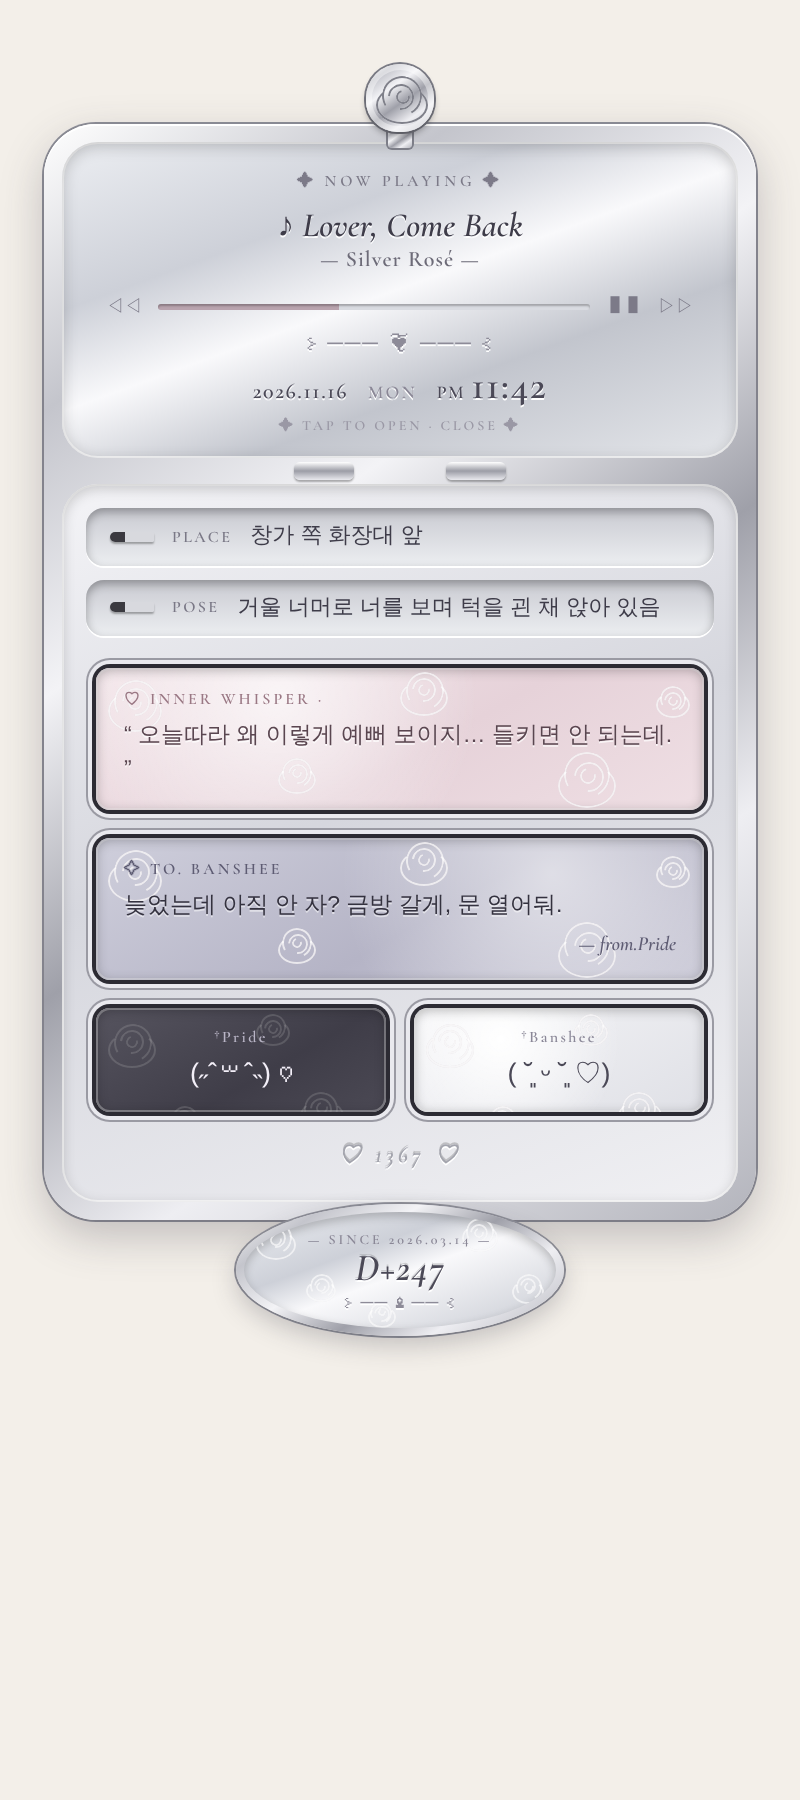
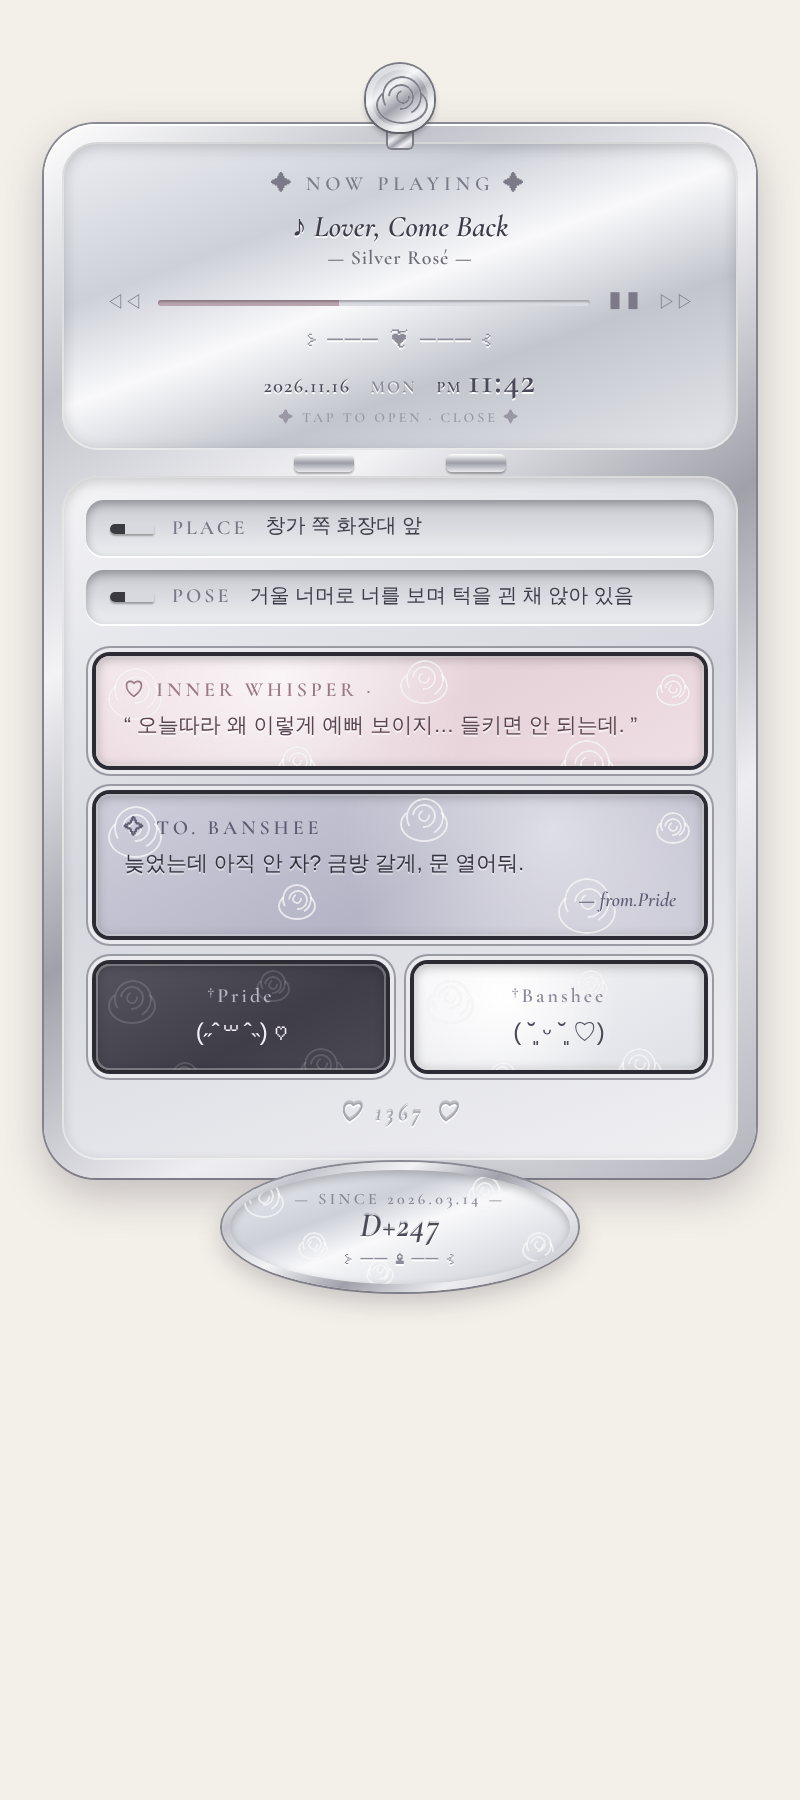
Larger labels, smaller filled values
Claude-Session: https://claude.ai/code/session_015A6CDdg71MrHfD1T3L7zrX

Changed region(s): [[0.0625, 0.0933, 0.9688, 0.7467]]

diff --git a/caveduck-widget/preview.html b/caveduck-widget/preview.html
@@ -19,14 +19,14 @@
       <summary style="cursor:pointer;list-style:none;outline:none;display:block">
         <!-- 거울 뚜껑 (탭하면 아래가 여닫힘) : 노래 a · 가수 b · 날짜 c · 요일 d · AM/PM e · 시각 f -->
         <div style="border-radius:18px;padding:16px 16px 12px;background:linear-gradient(160deg,#eceef2 0%,#cdd0d8 30%,#f9f9fb 48%,#c2c5cd 68%,#e4e6ea 100%);box-shadow:inset 0 2px 8px rgba(0,0,0,.22),inset 0 0 0 1px rgba(255,255,255,.8);text-align:center">
-          <div style="font:600 8px/1 'Cormorant Garamond','Playfair Display','Nanum Myeongjo','Noto Serif KR',serif;letter-spacing:0.24em;color:#7c7a88">✦ NOW PLAYING ✦</div>
-          <div style="font:italic 600 17px/1.18 'Cormorant Garamond','Playfair Display','Nanum Myeongjo','Noto Serif KR',serif;color:#3e3c49;margin-top:8px;text-shadow:0 1px 0 rgba(255,255,255,.9)">♪ Lover, Come Back</div>
-          <div style="font:11px/1.28 'Cormorant Garamond','Playfair Display','Nanum Myeongjo','Noto Serif KR',serif;color:#6d6b78;letter-spacing:0.048em">— Silver Rosé —</div>
+          <div style="font:600 10px/1 'Cormorant Garamond','Playfair Display','Nanum Myeongjo','Noto Serif KR',serif;letter-spacing:0.24em;color:#7c7a88">✦ NOW PLAYING ✦</div>
+          <div style="font:italic 600 15px/1.18 'Cormorant Garamond','Playfair Display','Nanum Myeongjo','Noto Serif KR',serif;color:#3e3c49;margin-top:8px;text-shadow:0 1px 0 rgba(255,255,255,.9)">♪ Lover, Come Back</div>
+          <div style="font:10px/1.28 'Cormorant Garamond','Playfair Display','Nanum Myeongjo','Noto Serif KR',serif;color:#6d6b78;letter-spacing:0.048em">— Silver Rosé —</div>
           <div style="display:flex;align-items:center;gap:8px;margin:10px 6px 0;font:9px 'Cormorant Garamond','Playfair Display','Nanum Myeongjo','Noto Serif KR',serif;color:#7c7a88"><span>◁◁</span>
             <div style="flex:1;height:3px;border-radius:3px;background:linear-gradient(90deg,#b9a3ae 0%,#b9a3ae 42%,#d9dbe1 42%);box-shadow:inset 0 1px 1px rgba(0,0,0,.25)"></div><span>❚❚</span><span>▷▷</span>
           </div>
           <div style="text-align:center;margin:7px 0 5px;font-size:11px;line-height:1;letter-spacing:0.09em;color:#8d8b98;text-shadow:0 1px 0 #fff">⊱ ─── ❦ ─── ⊰</div>
-          <div style="display:flex;justify-content:center;align-items:baseline;gap:10px;color:#4b4957;text-shadow:0 1px 0 #fff"><span style="font:600 11px 'Cormorant Garamond','Playfair Display','Nanum Myeongjo','Noto Serif KR',serif;letter-spacing:0.072em">2026.11.16</span><span style="font:600 9px 'Cormorant Garamond','Playfair Display','Nanum Myeongjo','Noto Serif KR',serif;letter-spacing:0.12em;color:#8a8796">MON</span><span style="font:600 20px/1 'Cormorant Garamond','Playfair Display','Nanum Myeongjo','Noto Serif KR',serif;letter-spacing:0.036em"><small style="font-size:9px;letter-spacing:0.09em;margin-right:3px">PM</small>11:42</span></div>
+          <div style="display:flex;justify-content:center;align-items:baseline;gap:10px;color:#4b4957;text-shadow:0 1px 0 #fff"><span style="font:600 10px 'Cormorant Garamond','Playfair Display','Nanum Myeongjo','Noto Serif KR',serif;letter-spacing:0.072em">2026.11.16</span><span style="font:600 8.5px 'Cormorant Garamond','Playfair Display','Nanum Myeongjo','Noto Serif KR',serif;letter-spacing:0.12em;color:#8a8796">MON</span><span style="font:600 18px/1 'Cormorant Garamond','Playfair Display','Nanum Myeongjo','Noto Serif KR',serif;letter-spacing:0.036em"><small style="font-size:8px;letter-spacing:0.09em;margin-right:3px">PM</small>11:42</span></div>
           <div style="text-align:center;font:600 7px 'Cormorant Garamond','Playfair Display','Nanum Myeongjo','Noto Serif KR',serif;letter-spacing:0.21em;color:#9a98a5;margin-top:6px">✦ TAP TO OPEN · CLOSE ✦</div>
         </div>
       </summary>
@@ -39,8 +39,8 @@
       <div style="border-radius:18px;padding:12px 12px 16px;background:linear-gradient(160deg,#f4f4f7,#d6d7de 45%,#f0f0f3);box-shadow:inset 0 2px 7px rgba(0,0,0,.2),inset 0 0 0 1px rgba(255,255,255,.8)">
         <div style="display:grid;gap:7px;margin-bottom:16px">
           <!-- 브러시 홈 : 장소 g / 자세 h -->
-          <div style="display:flex;align-items:center;gap:9px;padding:7px 12px;border-radius:9px;background:linear-gradient(180deg,#c9cad1,#eceef1);box-shadow:inset 0 2px 5px rgba(0,0,0,.3),0 1px 0 #fff"><span style="flex:none;width:22px;height:5px;border-radius:5px 2px 2px 5px;background:linear-gradient(90deg,#3b3a40 0 35%,#d8d9de 35% 100%);box-shadow:0 1px 1px rgba(0,0,0,.3)"></span><span style="flex:none;font:600 8px 'Cormorant Garamond','Playfair Display','Nanum Myeongjo','Noto Serif KR',serif;letter-spacing:0.15em;color:#7a7886">PLACE</span><span style="font-size:11px;line-height:1.31;color:#3e3c49">창가 쪽 화장대 앞</span></div>
-          <div style="display:flex;align-items:center;gap:9px;padding:7px 12px;border-radius:9px;background:linear-gradient(180deg,#c9cad1,#eceef1);box-shadow:inset 0 2px 5px rgba(0,0,0,.3),0 1px 0 #fff"><span style="flex:none;width:22px;height:5px;border-radius:5px 2px 2px 5px;background:linear-gradient(90deg,#3b3a40 0 35%,#d8d9de 35% 100%);box-shadow:0 1px 1px rgba(0,0,0,.3)"></span><span style="flex:none;font:600 8px 'Cormorant Garamond','Playfair Display','Nanum Myeongjo','Noto Serif KR',serif;letter-spacing:0.15em;color:#7a7886">POSE</span><span style="font-size:11px;line-height:1.31;color:#3e3c49">거울 너머로 너를 보며 턱을 괸 채 앉아 있음</span></div>
+          <div style="display:flex;align-items:center;gap:9px;padding:7px 12px;border-radius:9px;background:linear-gradient(180deg,#c9cad1,#eceef1);box-shadow:inset 0 2px 5px rgba(0,0,0,.3),0 1px 0 #fff"><span style="flex:none;width:22px;height:5px;border-radius:5px 2px 2px 5px;background:linear-gradient(90deg,#3b3a40 0 35%,#d8d9de 35% 100%);box-shadow:0 1px 1px rgba(0,0,0,.3)"></span><span style="flex:none;font:600 10px 'Cormorant Garamond','Playfair Display','Nanum Myeongjo','Noto Serif KR',serif;letter-spacing:0.15em;color:#7a7886">PLACE</span><span style="font-size:10px;line-height:1.31;color:#3e3c49">창가 쪽 화장대 앞</span></div>
+          <div style="display:flex;align-items:center;gap:9px;padding:7px 12px;border-radius:9px;background:linear-gradient(180deg,#c9cad1,#eceef1);box-shadow:inset 0 2px 5px rgba(0,0,0,.3),0 1px 0 #fff"><span style="flex:none;width:22px;height:5px;border-radius:5px 2px 2px 5px;background:linear-gradient(90deg,#3b3a40 0 35%,#d8d9de 35% 100%);box-shadow:0 1px 1px rgba(0,0,0,.3)"></span><span style="flex:none;font:600 10px 'Cormorant Garamond','Playfair Display','Nanum Myeongjo','Noto Serif KR',serif;letter-spacing:0.15em;color:#7a7886">POSE</span><span style="font-size:10px;line-height:1.31;color:#3e3c49">거울 너머로 너를 보며 턱을 괸 채 앉아 있음</span></div>
         </div>
         <div style="display:grid;gap:14px;padding:0 5px">
           <!-- 핑크 팬 : Pride의 속마음 i -->
@@ -90,8 +90,8 @@
               </div>
             </div>
             <div style="position:relative">
-              <div style="font:600 8px/1 'Cormorant Garamond','Playfair Display','Nanum Myeongjo','Noto Serif KR',serif;letter-spacing:0.192em;text-transform:uppercase;color:#9a7884;margin-bottom:6px">♡ Inner Whisper ·</div>
-              <div style="margin-top:2px;font:11.5px/1.45 'Pretendard','Apple SD Gothic Neo','Noto Sans KR',sans-serif;color:#5a4650;text-shadow:0 1px 0 rgba(255,255,255,.7)">“ 오늘따라 왜 이렇게 예뻐 보이지… 들키면 안 되는데. ”</div>
+              <div style="font:600 10px/1 'Cormorant Garamond','Playfair Display','Nanum Myeongjo','Noto Serif KR',serif;letter-spacing:0.192em;text-transform:uppercase;color:#9a7884;margin-bottom:6px">♡ Inner Whisper ·</div>
+              <div style="margin-top:2px;font:10.5px/1.45 'Pretendard','Apple SD Gothic Neo','Noto Sans KR',sans-serif;color:#5a4650;text-shadow:0 1px 0 rgba(255,255,255,.7)">“ 오늘따라 왜 이렇게 예뻐 보이지… 들키면 안 되는데. ”</div>
             </div>
           </div>
           <!-- 라벤더 팬 : Pride → Banshee 메시지 j -->
@@ -141,8 +141,8 @@
               </div>
             </div>
             <div style="position:relative">
-              <div style="font:600 8px/1 'Cormorant Garamond','Playfair Display','Nanum Myeongjo','Noto Serif KR',serif;letter-spacing:0.192em;text-transform:uppercase;color:#5e5c73;margin-bottom:6px">✧ To. Banshee</div>
-              <div style="font-size:11.5px;line-height:1.45;color:#34323f;text-shadow:0 1px 0 rgba(255,255,255,.5)">늦었는데 아직 안 자? 금방 갈게, 문 열어둬.</div>
+              <div style="font:600 10px/1 'Cormorant Garamond','Playfair Display','Nanum Myeongjo','Noto Serif KR',serif;letter-spacing:0.192em;text-transform:uppercase;color:#5e5c73;margin-bottom:6px">✧ To. Banshee</div>
+              <div style="font-size:10.5px;line-height:1.45;color:#34323f;text-shadow:0 1px 0 rgba(255,255,255,.5)">늦었는데 아직 안 자? 금방 갈게, 문 열어둬.</div>
               <div style="text-align:right;font:italic 10px 'Cormorant Garamond','Playfair Display','Nanum Myeongjo','Noto Serif KR',serif;color:#5e5c73;margin-top:4px">— from.Pride</div>
             </div>
           </div>
@@ -176,8 +176,8 @@
                 </div>
               </div>
               <div style="position:relative">
-                <div style="font:600 8px 'Cormorant Garamond','Playfair Display','Nanum Myeongjo','Noto Serif KR',serif;letter-spacing:0.15em;color:#b9b5c6;text-align:center">†Pride</div>
-                <div style="font-size:13.5px;line-height:1.42;text-align:center;color:#f3eff8;margin-top:4px;white-space:nowrap;overflow:hidden;text-overflow:ellipsis">(˶ˆ꒳ˆ˵) ♡</div>
+                <div style="font:600 10px 'Cormorant Garamond','Playfair Display','Nanum Myeongjo','Noto Serif KR',serif;letter-spacing:0.15em;color:#b9b5c6;text-align:center">†Pride</div>
+                <div style="font-size:12px;line-height:1.42;text-align:center;color:#f3eff8;margin-top:4px;white-space:nowrap;overflow:hidden;text-overflow:ellipsis">(˶ˆ꒳ˆ˵) ♡</div>
               </div>
             </div>
             <div style="position:relative;border-radius:7px;padding:12px 14px;color:#4b4957;background:radial-gradient(circle at 30% 30%,#fff,transparent 55%),linear-gradient(150deg,#f6f6f8,#dfe0e6);box-shadow:0 0 0 2px #2c2b33,0 0 0 4px #e9e9ee,0 0 0 5px #9a9aa3,inset 0 1px 6px rgba(0,0,0,.28),inset 0 0 0 1px rgba(255,255,255,.35);;padding:10px 8px">
@@ -208,8 +208,8 @@
                 </div>
               </div>
               <div style="position:relative">
-                <div style="font:600 8px 'Cormorant Garamond','Playfair Display','Nanum Myeongjo','Noto Serif KR',serif;letter-spacing:0.15em;color:#8b8898;text-align:center">†Banshee</div>
-                <div style="font-size:13.5px;line-height:1.42;text-align:center;color:#4b4957;margin-top:4px;white-space:nowrap;overflow:hidden;text-overflow:ellipsis">( ˘͈ ᵕ ˘͈ ♡)</div>
+                <div style="font:600 10px 'Cormorant Garamond','Playfair Display','Nanum Myeongjo','Noto Serif KR',serif;letter-spacing:0.15em;color:#8b8898;text-align:center">†Banshee</div>
+                <div style="font-size:12px;line-height:1.42;text-align:center;color:#4b4957;margin-top:4px;white-space:nowrap;overflow:hidden;text-overflow:ellipsis">( ˘͈ ᵕ ˘͈ ♡)</div>
               </div>
             </div>
           </div>
@@ -256,8 +256,8 @@
           </div>
         </div>
         <div style="position:relative">
-          <div style="font:600 7px 'Cormorant Garamond','Playfair Display','Nanum Myeongjo','Noto Serif KR',serif;letter-spacing:0.21em;color:#8a8796">— SINCE 2026.03.14 —</div>
-          <div style="font:italic 600 19px/1.1 'Cormorant Garamond','Playfair Display','Nanum Myeongjo','Noto Serif KR',serif;color:#4b4957;letter-spacing:0.03em;text-shadow:0 1px 0 #fff,0 -1px 0 rgba(0,0,0,.15)">D+247</div>
+          <div style="font:600 8px 'Cormorant Garamond','Playfair Display','Nanum Myeongjo','Noto Serif KR',serif;letter-spacing:0.21em;color:#8a8796">— SINCE 2026.03.14 —</div>
+          <div style="font:italic 600 17px/1.1 'Cormorant Garamond','Playfair Display','Nanum Myeongjo','Noto Serif KR',serif;color:#4b4957;letter-spacing:0.03em;text-shadow:0 1px 0 #fff,0 -1px 0 rgba(0,0,0,.15)">D+247</div>
           <div style="text-align:center;margin-top:2px;font-size:9px;line-height:1;letter-spacing:0.072em;color:#8d8b98;text-shadow:0 1px 0 #fff">⊱ ── ♝ ── ⊰</div>
         </div>
       </div>

diff --git a/caveduck-widget/rose-compact-widget.html b/caveduck-widget/rose-compact-widget.html
@@ -19,14 +19,14 @@
       <summary style="cursor:pointer;list-style:none;outline:none;display:block">
         <!-- 거울 뚜껑 (탭하면 아래가 여닫힘) : 노래 a · 가수 b · 날짜 c · 요일 d · AM/PM e · 시각 f -->
         <div style="border-radius:18px;padding:16px 16px 12px;background:linear-gradient(160deg,#eceef2 0%,#cdd0d8 30%,#f9f9fb 48%,#c2c5cd 68%,#e4e6ea 100%);box-shadow:inset 0 2px 8px rgba(0,0,0,.22),inset 0 0 0 1px rgba(255,255,255,.8);text-align:center">
-          <div style="font:600 8px/1 'Cormorant Garamond','Playfair Display','Nanum Myeongjo','Noto Serif KR',serif;letter-spacing:0.24em;color:#7c7a88">✦ NOW PLAYING ✦</div>
-          <div style="font:italic 600 17px/1.18 'Cormorant Garamond','Playfair Display','Nanum Myeongjo','Noto Serif KR',serif;color:#3e3c49;margin-top:8px;text-shadow:0 1px 0 rgba(255,255,255,.9)">♪ {{a}}</div>
-          <div style="font:11px/1.28 'Cormorant Garamond','Playfair Display','Nanum Myeongjo','Noto Serif KR',serif;color:#6d6b78;letter-spacing:0.048em">— {{b}} —</div>
+          <div style="font:600 10px/1 'Cormorant Garamond','Playfair Display','Nanum Myeongjo','Noto Serif KR',serif;letter-spacing:0.24em;color:#7c7a88">✦ NOW PLAYING ✦</div>
+          <div style="font:italic 600 15px/1.18 'Cormorant Garamond','Playfair Display','Nanum Myeongjo','Noto Serif KR',serif;color:#3e3c49;margin-top:8px;text-shadow:0 1px 0 rgba(255,255,255,.9)">♪ {{a}}</div>
+          <div style="font:10px/1.28 'Cormorant Garamond','Playfair Display','Nanum Myeongjo','Noto Serif KR',serif;color:#6d6b78;letter-spacing:0.048em">— {{b}} —</div>
           <div style="display:flex;align-items:center;gap:8px;margin:10px 6px 0;font:9px 'Cormorant Garamond','Playfair Display','Nanum Myeongjo','Noto Serif KR',serif;color:#7c7a88"><span>◁◁</span>
             <div style="flex:1;height:3px;border-radius:3px;background:linear-gradient(90deg,#b9a3ae 0%,#b9a3ae 42%,#d9dbe1 42%);box-shadow:inset 0 1px 1px rgba(0,0,0,.25)"></div><span>❚❚</span><span>▷▷</span>
           </div>
           <div style="text-align:center;margin:7px 0 5px;font-size:11px;line-height:1;letter-spacing:0.09em;color:#8d8b98;text-shadow:0 1px 0 #fff">⊱ ─── ❦ ─── ⊰</div>
-          <div style="display:flex;justify-content:center;align-items:baseline;gap:10px;color:#4b4957;text-shadow:0 1px 0 #fff"><span style="font:600 11px 'Cormorant Garamond','Playfair Display','Nanum Myeongjo','Noto Serif KR',serif;letter-spacing:0.072em">{{c}}</span><span style="font:600 9px 'Cormorant Garamond','Playfair Display','Nanum Myeongjo','Noto Serif KR',serif;letter-spacing:0.12em;color:#8a8796">{{d}}</span><span style="font:600 20px/1 'Cormorant Garamond','Playfair Display','Nanum Myeongjo','Noto Serif KR',serif;letter-spacing:0.036em"><small style="font-size:9px;letter-spacing:0.09em;margin-right:3px">{{e}}</small>{{f}}</span></div>
+          <div style="display:flex;justify-content:center;align-items:baseline;gap:10px;color:#4b4957;text-shadow:0 1px 0 #fff"><span style="font:600 10px 'Cormorant Garamond','Playfair Display','Nanum Myeongjo','Noto Serif KR',serif;letter-spacing:0.072em">{{c}}</span><span style="font:600 8.5px 'Cormorant Garamond','Playfair Display','Nanum Myeongjo','Noto Serif KR',serif;letter-spacing:0.12em;color:#8a8796">{{d}}</span><span style="font:600 18px/1 'Cormorant Garamond','Playfair Display','Nanum Myeongjo','Noto Serif KR',serif;letter-spacing:0.036em"><small style="font-size:8px;letter-spacing:0.09em;margin-right:3px">{{e}}</small>{{f}}</span></div>
           <div style="text-align:center;font:600 7px 'Cormorant Garamond','Playfair Display','Nanum Myeongjo','Noto Serif KR',serif;letter-spacing:0.21em;color:#9a98a5;margin-top:6px">✦ TAP TO OPEN · CLOSE ✦</div>
         </div>
       </summary>
@@ -39,8 +39,8 @@
       <div style="border-radius:18px;padding:12px 12px 16px;background:linear-gradient(160deg,#f4f4f7,#d6d7de 45%,#f0f0f3);box-shadow:inset 0 2px 7px rgba(0,0,0,.2),inset 0 0 0 1px rgba(255,255,255,.8)">
         <div style="display:grid;gap:7px;margin-bottom:16px">
           <!-- 브러시 홈 : 장소 g / 자세 h -->
-          <div style="display:flex;align-items:center;gap:9px;padding:7px 12px;border-radius:9px;background:linear-gradient(180deg,#c9cad1,#eceef1);box-shadow:inset 0 2px 5px rgba(0,0,0,.3),0 1px 0 #fff"><span style="flex:none;width:22px;height:5px;border-radius:5px 2px 2px 5px;background:linear-gradient(90deg,#3b3a40 0 35%,#d8d9de 35% 100%);box-shadow:0 1px 1px rgba(0,0,0,.3)"></span><span style="flex:none;font:600 8px 'Cormorant Garamond','Playfair Display','Nanum Myeongjo','Noto Serif KR',serif;letter-spacing:0.15em;color:#7a7886">PLACE</span><span style="font-size:11px;line-height:1.31;color:#3e3c49">{{g}}</span></div>
-          <div style="display:flex;align-items:center;gap:9px;padding:7px 12px;border-radius:9px;background:linear-gradient(180deg,#c9cad1,#eceef1);box-shadow:inset 0 2px 5px rgba(0,0,0,.3),0 1px 0 #fff"><span style="flex:none;width:22px;height:5px;border-radius:5px 2px 2px 5px;background:linear-gradient(90deg,#3b3a40 0 35%,#d8d9de 35% 100%);box-shadow:0 1px 1px rgba(0,0,0,.3)"></span><span style="flex:none;font:600 8px 'Cormorant Garamond','Playfair Display','Nanum Myeongjo','Noto Serif KR',serif;letter-spacing:0.15em;color:#7a7886">POSE</span><span style="font-size:11px;line-height:1.31;color:#3e3c49">{{h}}</span></div>
+          <div style="display:flex;align-items:center;gap:9px;padding:7px 12px;border-radius:9px;background:linear-gradient(180deg,#c9cad1,#eceef1);box-shadow:inset 0 2px 5px rgba(0,0,0,.3),0 1px 0 #fff"><span style="flex:none;width:22px;height:5px;border-radius:5px 2px 2px 5px;background:linear-gradient(90deg,#3b3a40 0 35%,#d8d9de 35% 100%);box-shadow:0 1px 1px rgba(0,0,0,.3)"></span><span style="flex:none;font:600 10px 'Cormorant Garamond','Playfair Display','Nanum Myeongjo','Noto Serif KR',serif;letter-spacing:0.15em;color:#7a7886">PLACE</span><span style="font-size:10px;line-height:1.31;color:#3e3c49">{{g}}</span></div>
+          <div style="display:flex;align-items:center;gap:9px;padding:7px 12px;border-radius:9px;background:linear-gradient(180deg,#c9cad1,#eceef1);box-shadow:inset 0 2px 5px rgba(0,0,0,.3),0 1px 0 #fff"><span style="flex:none;width:22px;height:5px;border-radius:5px 2px 2px 5px;background:linear-gradient(90deg,#3b3a40 0 35%,#d8d9de 35% 100%);box-shadow:0 1px 1px rgba(0,0,0,.3)"></span><span style="flex:none;font:600 10px 'Cormorant Garamond','Playfair Display','Nanum Myeongjo','Noto Serif KR',serif;letter-spacing:0.15em;color:#7a7886">POSE</span><span style="font-size:10px;line-height:1.31;color:#3e3c49">{{h}}</span></div>
         </div>
         <div style="display:grid;gap:14px;padding:0 5px">
           <!-- 핑크 팬 : Pride의 속마음 i -->
@@ -90,8 +90,8 @@
               </div>
             </div>
             <div style="position:relative">
-              <div style="font:600 8px/1 'Cormorant Garamond','Playfair Display','Nanum Myeongjo','Noto Serif KR',serif;letter-spacing:0.192em;text-transform:uppercase;color:#9a7884;margin-bottom:6px">♡ Inner Whisper ·</div>
-              <div style="margin-top:2px;font:11.5px/1.45 'Pretendard','Apple SD Gothic Neo','Noto Sans KR',sans-serif;color:#5a4650;text-shadow:0 1px 0 rgba(255,255,255,.7)">“ {{i}} ”</div>
+              <div style="font:600 10px/1 'Cormorant Garamond','Playfair Display','Nanum Myeongjo','Noto Serif KR',serif;letter-spacing:0.192em;text-transform:uppercase;color:#9a7884;margin-bottom:6px">♡ Inner Whisper ·</div>
+              <div style="margin-top:2px;font:10.5px/1.45 'Pretendard','Apple SD Gothic Neo','Noto Sans KR',sans-serif;color:#5a4650;text-shadow:0 1px 0 rgba(255,255,255,.7)">“ {{i}} ”</div>
             </div>
           </div>
           <!-- 라벤더 팬 : Pride → Banshee 메시지 j -->
@@ -141,8 +141,8 @@
               </div>
             </div>
             <div style="position:relative">
-              <div style="font:600 8px/1 'Cormorant Garamond','Playfair Display','Nanum Myeongjo','Noto Serif KR',serif;letter-spacing:0.192em;text-transform:uppercase;color:#5e5c73;margin-bottom:6px">✧ To. Banshee</div>
-              <div style="font-size:11.5px;line-height:1.45;color:#34323f;text-shadow:0 1px 0 rgba(255,255,255,.5)">{{j}}</div>
+              <div style="font:600 10px/1 'Cormorant Garamond','Playfair Display','Nanum Myeongjo','Noto Serif KR',serif;letter-spacing:0.192em;text-transform:uppercase;color:#5e5c73;margin-bottom:6px">✧ To. Banshee</div>
+              <div style="font-size:10.5px;line-height:1.45;color:#34323f;text-shadow:0 1px 0 rgba(255,255,255,.5)">{{j}}</div>
               <div style="text-align:right;font:italic 10px 'Cormorant Garamond','Playfair Display','Nanum Myeongjo','Noto Serif KR',serif;color:#5e5c73;margin-top:4px">— from.Pride</div>
             </div>
           </div>
@@ -176,8 +176,8 @@
                 </div>
               </div>
               <div style="position:relative">
-                <div style="font:600 8px 'Cormorant Garamond','Playfair Display','Nanum Myeongjo','Noto Serif KR',serif;letter-spacing:0.15em;color:#b9b5c6;text-align:center">†Pride</div>
-                <div style="font-size:13.5px;line-height:1.42;text-align:center;color:#f3eff8;margin-top:4px;white-space:nowrap;overflow:hidden;text-overflow:ellipsis">{{k}}</div>
+                <div style="font:600 10px 'Cormorant Garamond','Playfair Display','Nanum Myeongjo','Noto Serif KR',serif;letter-spacing:0.15em;color:#b9b5c6;text-align:center">†Pride</div>
+                <div style="font-size:12px;line-height:1.42;text-align:center;color:#f3eff8;margin-top:4px;white-space:nowrap;overflow:hidden;text-overflow:ellipsis">{{k}}</div>
               </div>
             </div>
             <div style="position:relative;border-radius:7px;padding:12px 14px;color:#4b4957;background:radial-gradient(circle at 30% 30%,#fff,transparent 55%),linear-gradient(150deg,#f6f6f8,#dfe0e6);box-shadow:0 0 0 2px #2c2b33,0 0 0 4px #e9e9ee,0 0 0 5px #9a9aa3,inset 0 1px 6px rgba(0,0,0,.28),inset 0 0 0 1px rgba(255,255,255,.35);;padding:10px 8px">
@@ -208,8 +208,8 @@
                 </div>
               </div>
               <div style="position:relative">
-                <div style="font:600 8px 'Cormorant Garamond','Playfair Display','Nanum Myeongjo','Noto Serif KR',serif;letter-spacing:0.15em;color:#8b8898;text-align:center">†Banshee</div>
-                <div style="font-size:13.5px;line-height:1.42;text-align:center;color:#4b4957;margin-top:4px;white-space:nowrap;overflow:hidden;text-overflow:ellipsis">{{l}}</div>
+                <div style="font:600 10px 'Cormorant Garamond','Playfair Display','Nanum Myeongjo','Noto Serif KR',serif;letter-spacing:0.15em;color:#8b8898;text-align:center">†Banshee</div>
+                <div style="font-size:12px;line-height:1.42;text-align:center;color:#4b4957;margin-top:4px;white-space:nowrap;overflow:hidden;text-overflow:ellipsis">{{l}}</div>
               </div>
             </div>
           </div>
@@ -256,8 +256,8 @@
           </div>
         </div>
         <div style="position:relative">
-          <div style="font:600 7px 'Cormorant Garamond','Playfair Display','Nanum Myeongjo','Noto Serif KR',serif;letter-spacing:0.21em;color:#8a8796">— SINCE {{m}} —</div>
-          <div style="font:italic 600 19px/1.1 'Cormorant Garamond','Playfair Display','Nanum Myeongjo','Noto Serif KR',serif;color:#4b4957;letter-spacing:0.03em;text-shadow:0 1px 0 #fff,0 -1px 0 rgba(0,0,0,.15)">{{n}}</div>
+          <div style="font:600 8px 'Cormorant Garamond','Playfair Display','Nanum Myeongjo','Noto Serif KR',serif;letter-spacing:0.21em;color:#8a8796">— SINCE {{m}} —</div>
+          <div style="font:italic 600 17px/1.1 'Cormorant Garamond','Playfair Display','Nanum Myeongjo','Noto Serif KR',serif;color:#4b4957;letter-spacing:0.03em;text-shadow:0 1px 0 #fff,0 -1px 0 rgba(0,0,0,.15)">{{n}}</div>
           <div style="text-align:center;margin-top:2px;font-size:9px;line-height:1;letter-spacing:0.072em;color:#8d8b98;text-shadow:0 1px 0 #fff">⊱ ── ♝ ── ⊰</div>
         </div>
       </div>
